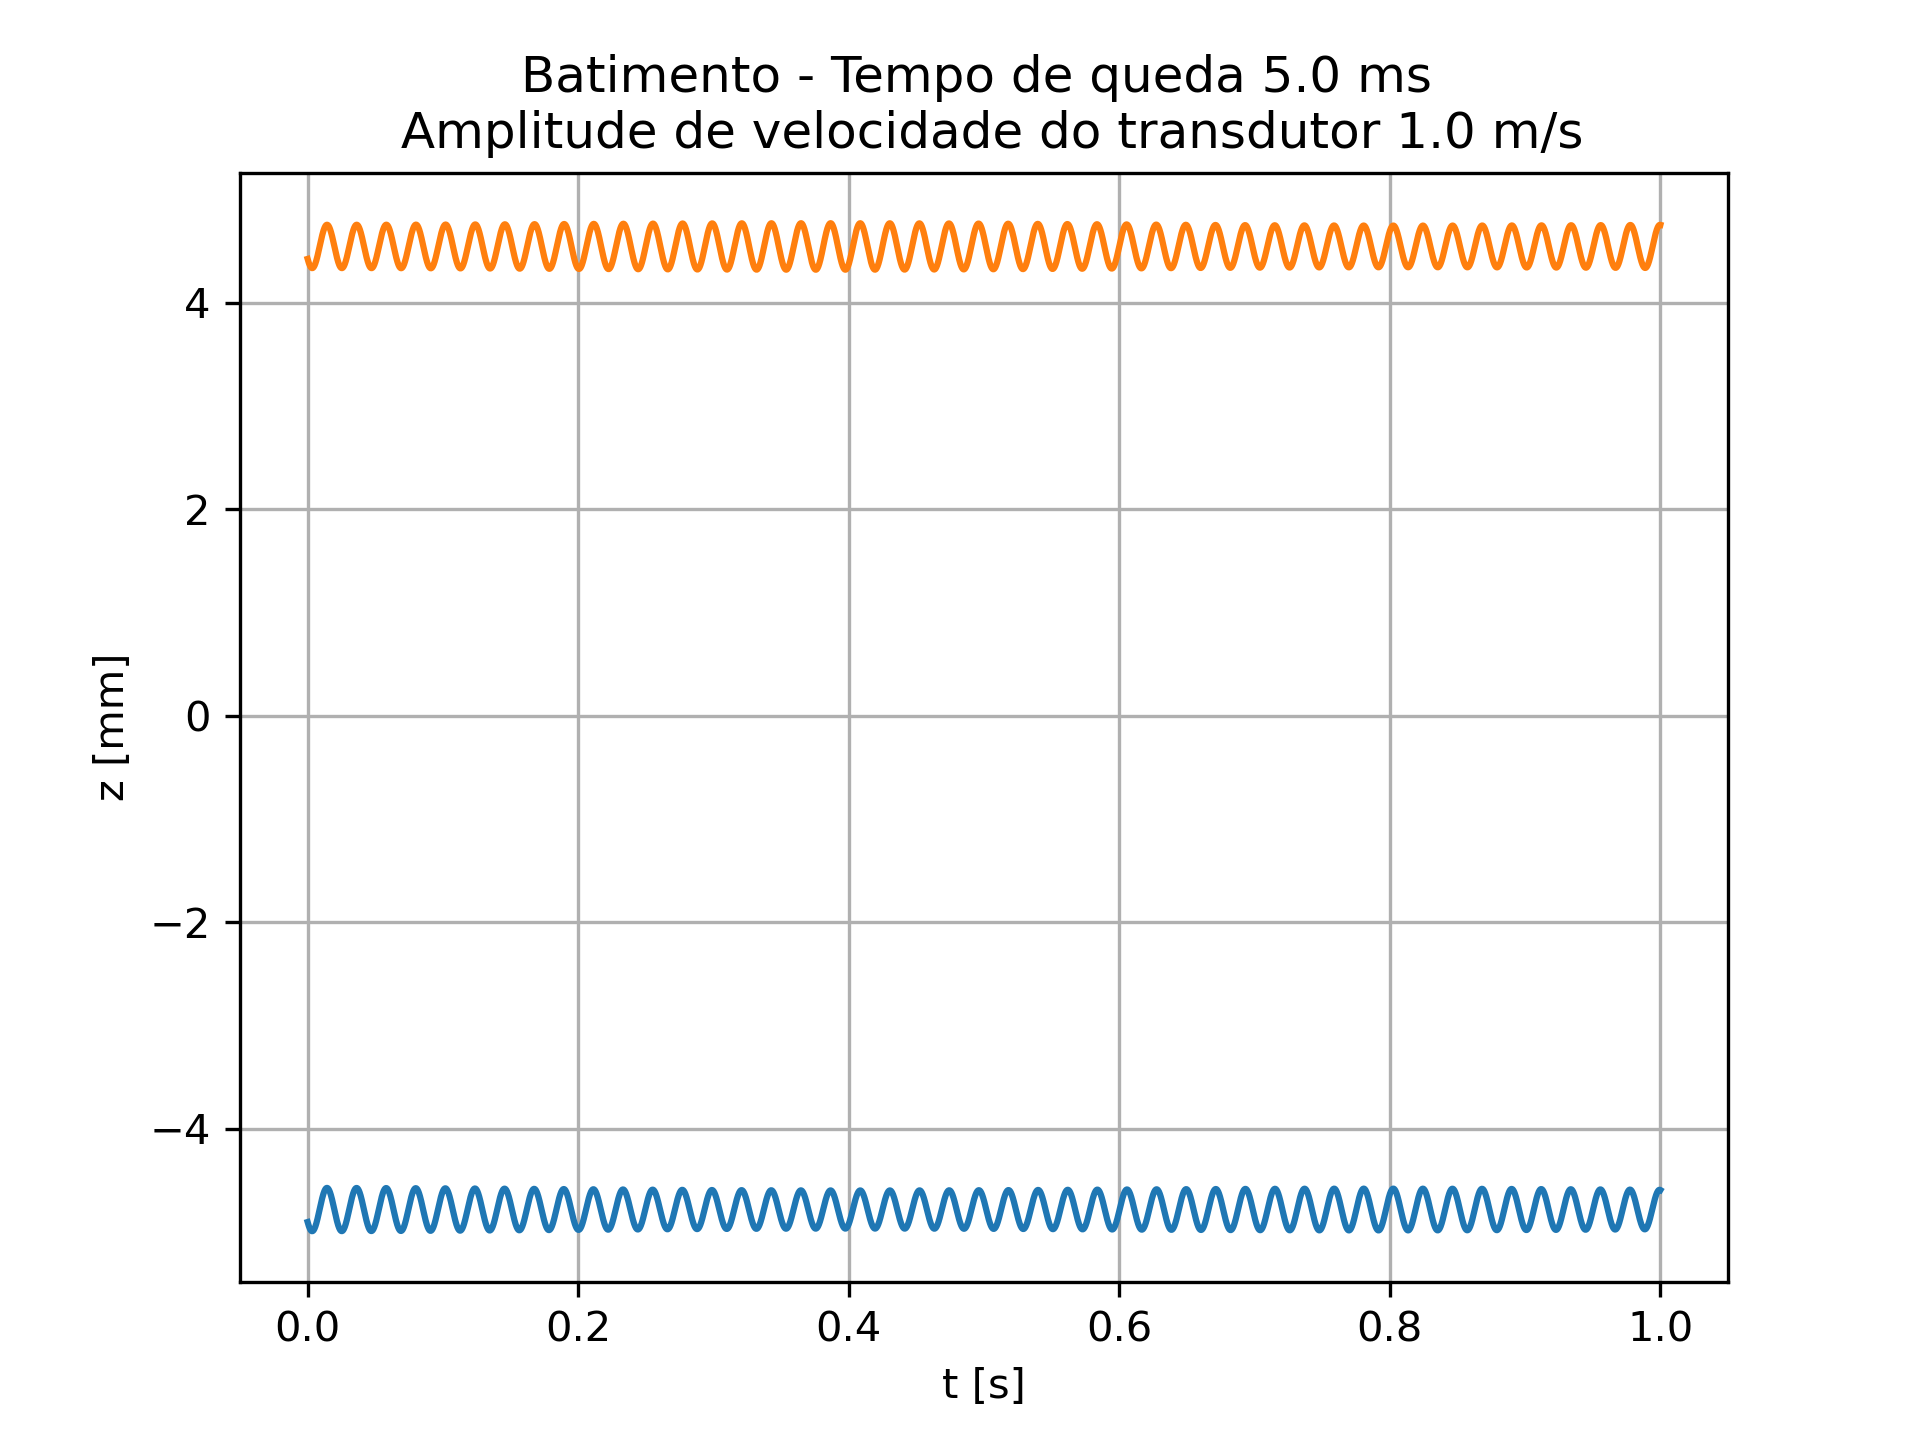
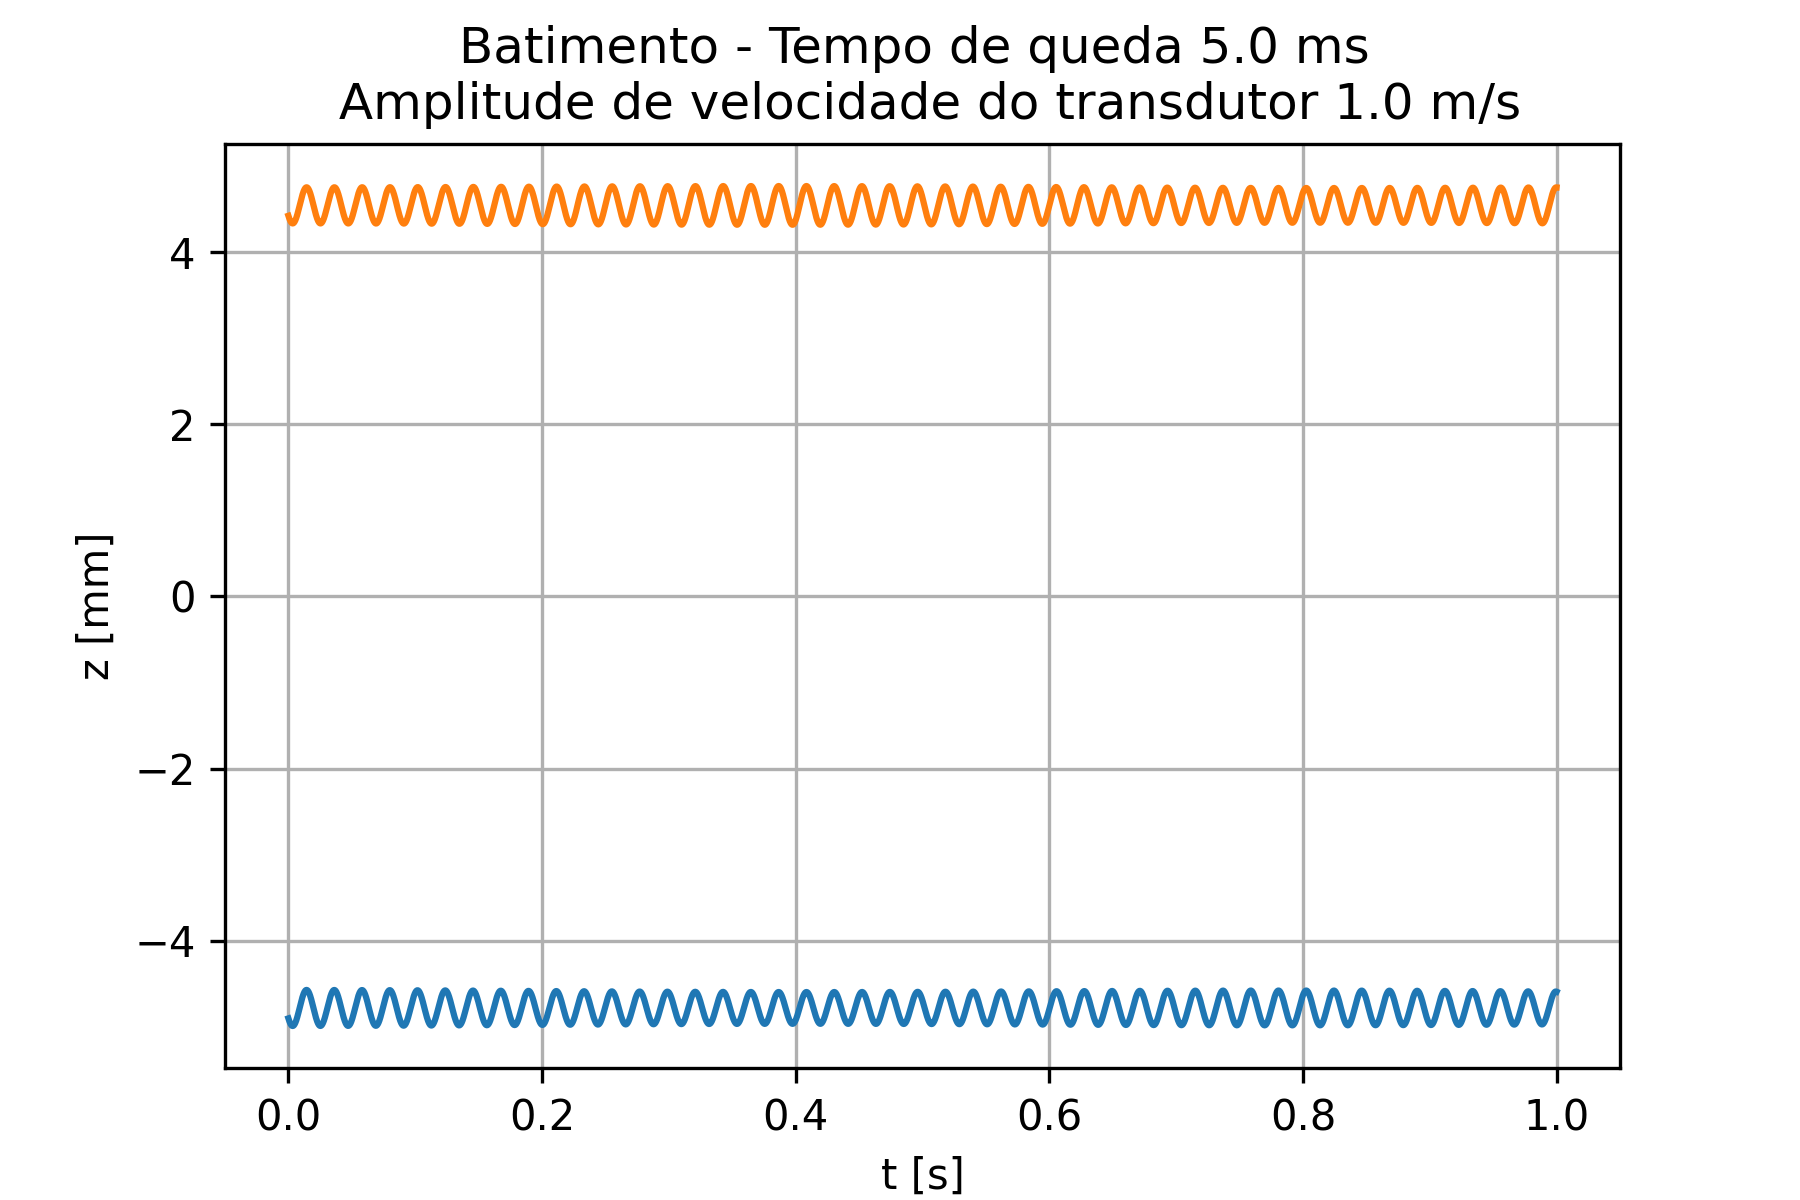
Batimento com condição inicial deslocada apenas em dz

diff --git a/Batimento/Batimento-metodoControlado.py b/Batimento/Batimento-metodoControlado.py
@@ -1,0 +1,114 @@
+import sys, os
+parent_dir = os.path.abspath(os.path.join(os.path.dirname(__file__), ".."))
+sys.path.append(parent_dir) #Para poder importar o main, que está em uma pasta anterior
+
+from main import Simulador
+import numpy as np
+import matplotlib.pyplot as plt
+import matplotlib as mpl
+
+f=40e3 #Hz
+dicMeio = Simulador.ar(1)
+
+Npar=2
+a = np.array(Npar*[[1]]) # [mm]
+rhoPol = (900*(10**-6)) #[g/mm^3] #Material: PP
+cPol = 2740*(10**3) #[mm/s] 
+m = (a**3*(4*np.pi/3))*rhoPol # [g], densidade do ar vezes seu volume
+f1 = 1- ((dicMeio['rho']*(dicMeio['c']**2))/ (rhoPol*(cPol**2)))
+f2 = 2*((rhoPol-dicMeio['rho'])/((2*rhoPol)+dicMeio['rho']))
+v0t = 1e3 #mm/s
+Lamb=dicMeio["c"]/f
+
+fase=0
+
+print(f'lambda = {Lamb:.2f} mm ')
+
+sim = Simulador(np.array(Npar*[[f1]]), np.array(Npar*[[f2]]), f, dicMeio['c'], a, m, dicMeio['rho'], v0t, 0, 1e3*dicMeio['dinvis'])
+sim.tinyLev(fase)
+
+g=[0,0,-9.81e3]
+
+z0eq=[-Lamb/4, Lamb/4]
+dz = 1
+tsim = 3
+
+#Achar ponto de quilíbrio em 2 partículas
+dt = 1e-6
+tcar = m[0,0]/(dicMeio['dinvis']*1e3)#tempo característico devido à força de arrasto
+
+r0 = np.array([[[0.0,0,z0eq[0]]],[[0.0,0,z0eq[1]]]])
+v0 = np.array([[[0.0,0,0]],[[0.0,0,0]]])
+
+rs, vs, t = sim.Simular(r0, v0, dt, tcar, g=g)
+
+while not np.all(np.isclose(vs[:,-1, :],0)): #Simula até que a velocidade seja nula
+    rs, vs, t = sim.Simular(rs[:,-1,:], vs[:,-1,:], dt, tcar, g=g)
+    
+req = rs[:,-1,:] #pontos de equilíbrio
+
+r0 = rs[:,-1,:]+np.array([[0,0,-dz],[0,0,-dz]])
+#Religamento
+sim = Simulador(np.array(Npar*[[f1]]), np.array(Npar*[[f2]]), f, dicMeio['c'], a, m, dicMeio['rho'], v0t, 0, 0*dicMeio['dinvis'])
+sim.tinyLev(fase)
+rs, vs, t = sim.Simular(r0, vs[:,-1,:], dt, tsim, g=g)
+
+
+print('nodos de pressão, se fossem ondas planas')
+print(f'z0 = {z0eq[0]:.2f} mm')
+print(f'z1 = {z0eq[1]:.2f} mm')
+
+print('pontos de equilíbrio, partículas simultâneas')
+print(f'z0 = {req[0,2]:.2f} mm')
+print(f'z1 = {req[1,2]:.2f} mm')
+
+print('pontos após descer')
+print(f'z0 = {r0[0,2]:.2f} mm')
+print(f'z1 = {r0[1,2]:.2f} mm')
+
+arraysalva=[['Amplitude de velocidade do transdutor', f'{v0t:.4e} mm/s'],
+              ['deslocamento em z', f'{dz:.1f} mm'],
+              ['Partículas de PP no ar', 'usando TinyLev'],
+              ['nodos de pressão, se fossem ondas planas',''],
+              ['z0' , f'{z0eq[0]:.4f} mm'], 
+              ['z1' ,f'{z0eq[1]:.4f} mm'],
+              ['pontos de equilíbrio, partículas simultâneas', ''],
+              ['z0', f'{req[0,2]:.4f} mm'],
+              ['z1', f'{req[1,2]:.4f} mm'],
+              ['pontos após descer', ''],
+              ['z0', f'{r0[0,2]:.4f} mm'],
+              ['z1', f'{r0[1,2]:.4f} mm']
+              
+              ]
+
+np.savetxt(f'Batimento-queda {dz:.0f}-posicao{z0eq[0]*2/Lamb:.1f};{z0eq[1]*2/Lamb:.1f}.txt', arraysalva, fmt='%s')
+
+#x x t
+plt.figure(dpi=300)
+for i in range(Npar):
+    plt.plot(t, rs[i, :, 2], linestyle='-', marker='',markersize=2)
+plt.plot(t, (rs[0, :, 2]+rs[1, :, 2])/2, linestyle='-', marker='',markersize=2)
+    
+plt.ylabel("z [mm]")
+plt.xlabel("t [s]")
+plt.title(f'Batimento - deslocamento em z {dz:.1f} mm \n Amplitude de velocidade do transdutor {v0t*1e-3:.1f} m/s')
+plt.grid()
+
+plt.savefig(f'Batimento-queda {dz:.0f}-posicao{z0eq[0]*2/Lamb:.1f};{z0eq[1]*2/Lamb:.1f}.png')
+plt.show()
+
+plt.figure(dpi=300)
+plt.plot( rs[0, :, 2], rs[1, :, 2], linestyle='-', marker='',linewidth =0.5)
+plt.ylabel("z2 [mm]")
+plt.xlabel("z1 [mm]")
+plt.title(f'Espaço de fase - deslocamento em z {dz:.1f} mm \n Amplitude de velocidade do transdutor {v0t*1e-3:.1f} m/s')
+plt.grid()
+plt.show()
+
+plt.figure(dpi=300)
+plt.plot( (rs[0, :, 2]+ rs[1, :, 2])/2, (rs[1, :, 2]- rs[0, :, 2])/2, linestyle='-', marker='',linewidth =0.5)
+plt.ylabel("z2 - z1/2 [mm]")
+plt.xlabel("z2 + z1/2[mm]")
+plt.title(f'Espaço de fase 2 - deslocamento em z {dz:.1f} mm \n Amplitude de velocidade do transdutor {v0t*1e-3:.1f} m/s')
+plt.grid()
+plt.show()
